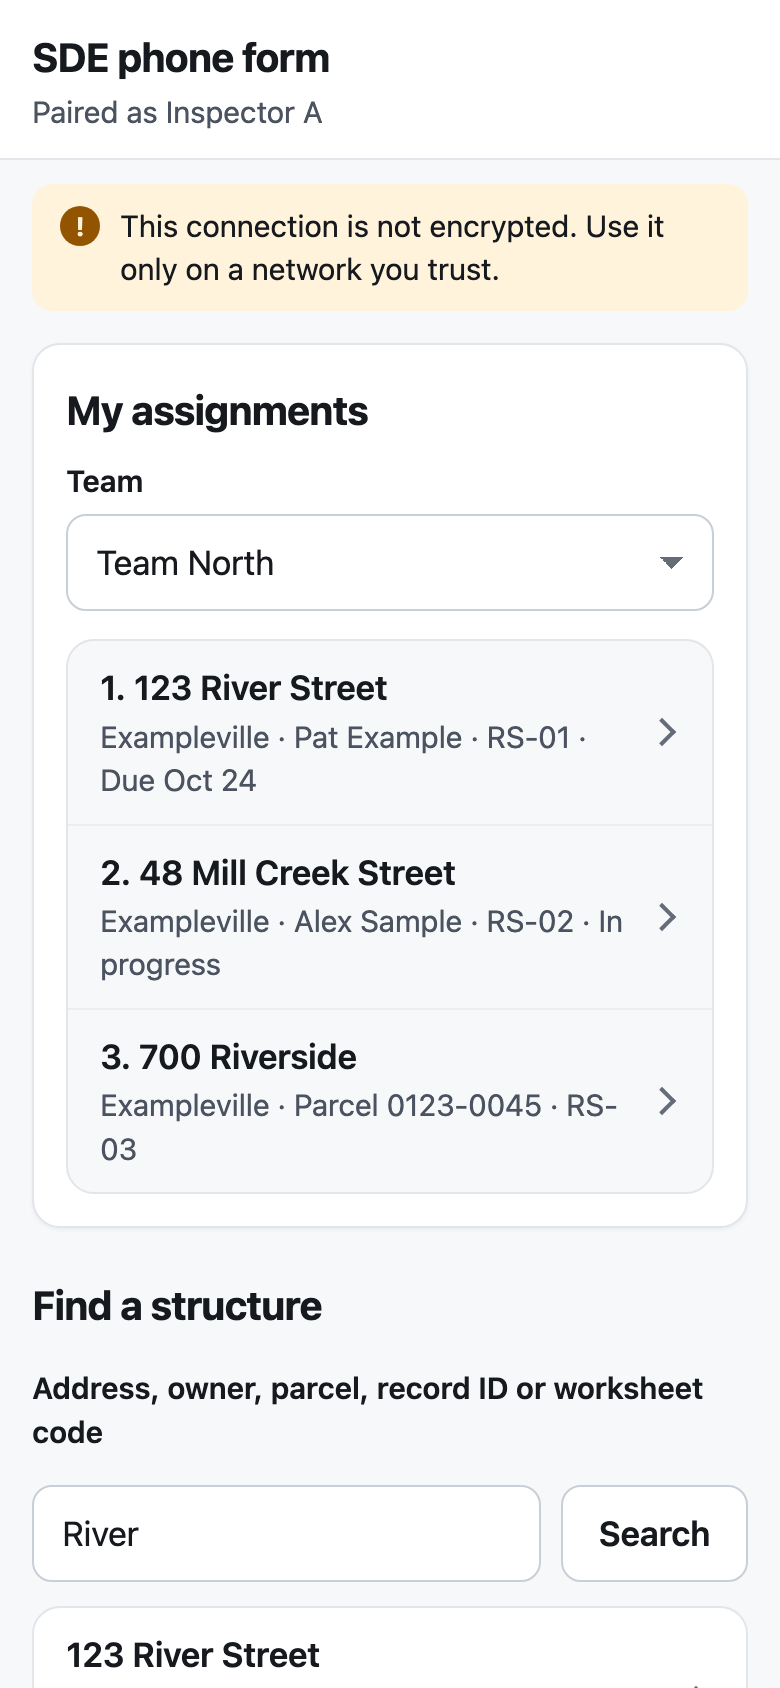
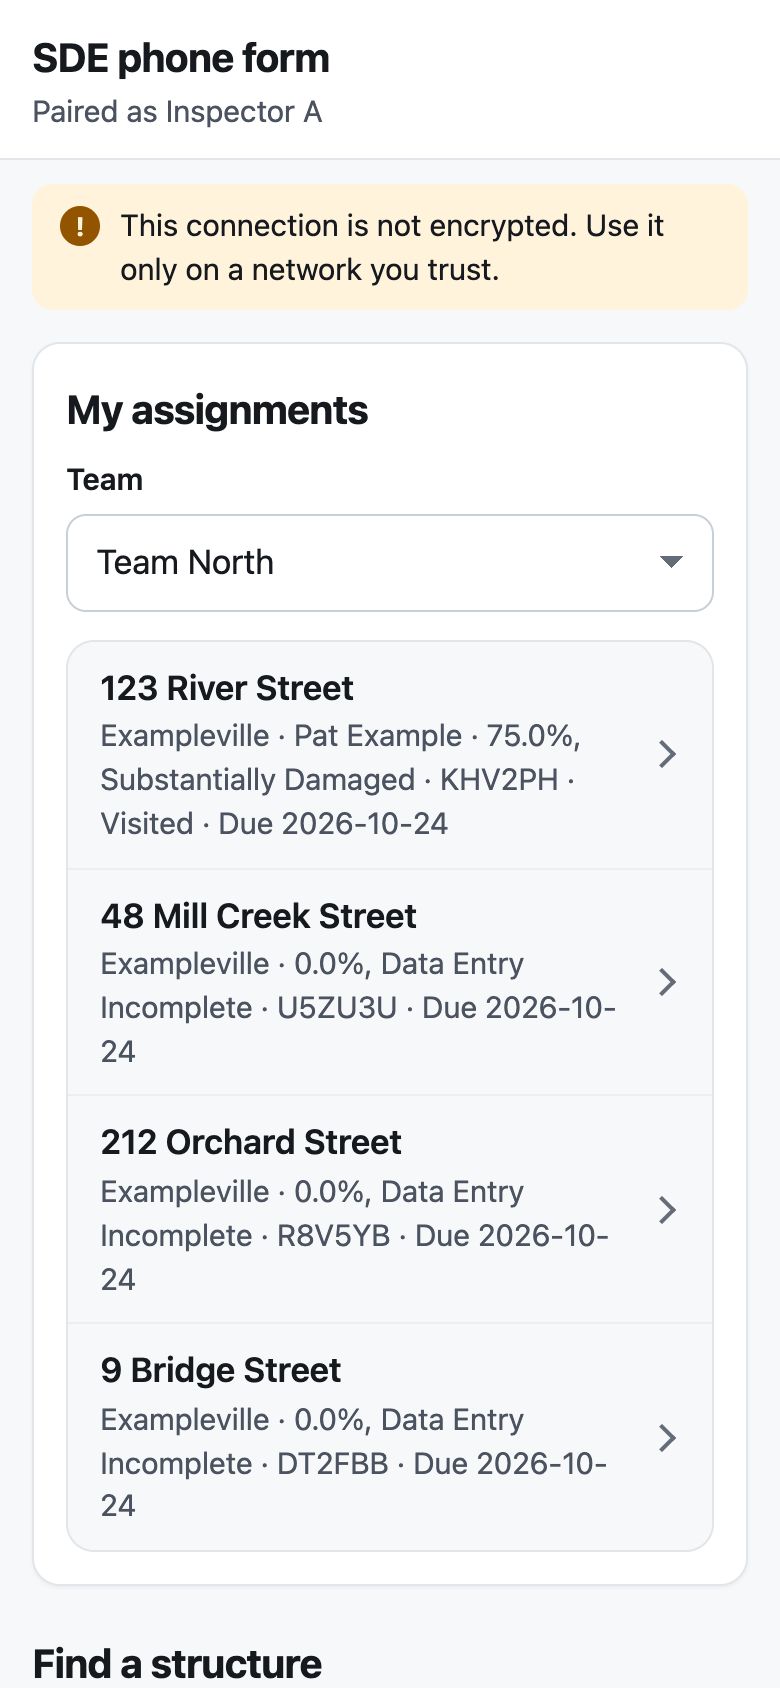
Phone form screenshots are real renders now, with a tool to make them again
tools/phone-screens/shoot.mjs drives headless Chrome over the DevTools
protocol at a phone's size: it pairs with the one-time token as the QR
code would, shows My assignments, opens the first structure, and
captures 90-phone-find and 91-phone-edit in light and dark.
PhoneScreensHost (tests/Sde.Field.Tests) serves the phone form with
made-up data for it, and does nothing unless SDE_PHONE_SCREENS is set.
Replaces the hand-made mock-ups.

diff --git a/tests/Sde.Field.Tests/PhoneScreensHost.cs b/tests/Sde.Field.Tests/PhoneScreensHost.cs
@@ -1,0 +1,57 @@
+using System.Net;
+using System.Text.Json;
+using Sde.Core.Assessments;
+using Sde.Core.Records;
+using Sde.Data;
+
+namespace Sde.Field.Tests;
+
+/// <summary>
+/// Not a test: the phone form running with made-up data, for tools/phone-screens/shoot.mjs to photograph. It does
+/// nothing unless SDE_PHONE_SCREENS names a folder; then it writes server.json there (the address and pairing token)
+/// and serves until a file called "done" appears (or three minutes pass).
+/// </summary>
+public class PhoneScreensHost
+{
+	[Fact]
+	public async Task ServeForScreenshots()
+	{
+		string folder = Environment.GetEnvironmentVariable("SDE_PHONE_SCREENS");
+		if (string.IsNullOrEmpty(folder))
+		{
+			return;
+		}
+		Directory.CreateDirectory(folder);
+		using TempDatabase db = new TempDatabase();
+		SdeStore store = db.Store;
+		store.UserName = "Reviewer A";
+		AssessmentFile river = SampleCases.RanchFlood(store);
+		List<Guid> properties = new List<Guid> { river.Property.PropertyID };
+		foreach ((string number, string street) in new[] { ("48", "Mill Creek"), ("212", "Orchard"), ("9", "Bridge") })
+		{
+			PropertyRecord p = store.SaveProperty(new PropertyRecord { StructureTypeID = 1, StreetNumber = number, StreetName = street, StreetSuffixID = river.Property.StreetSuffixID, City = river.Property.City, StateID = river.Property.StateID });
+			store.CreateAssessment(p.PropertyID, applyDefaults: false);
+			properties.Add(p.PropertyID);
+		}
+		TeamRecord team = store.SaveTeam(new TeamRecord { Name = "Team North", Members = "Inspector A, Inspector B" });
+		store.AssignToTeam(properties, team.TeamID, null, DateTime.Today.AddDays(2));
+		store.SetAssignmentStatus(store.GetAssignments(team.TeamID)[0].AssignmentID, AssignmentStatuses.Visited);
+
+		FieldServer server = new FieldServer(() => store, new DirectFieldWriter(() => store));
+		server.Start(new FieldServerOptions { BindAddress = IPAddress.Loopback, TempFolder = Path.Combine(db.Folder, "phone-temp") });
+		try
+		{
+			File.WriteAllText(Path.Combine(folder, "server.json"), JsonSerializer.Serialize(new { baseAddress = server.BaseAddress.ToString(), token = server.Pairing.Current.Token }));
+			string done = Path.Combine(folder, "done");
+			for (int i = 0; i < 1800 && !File.Exists(done); i++)
+			{
+				await Task.Delay(100);
+			}
+		}
+		finally
+		{
+			await server.StopAsync();
+			File.Delete(Path.Combine(folder, "server.json"));
+		}
+	}
+}

diff --git a/tools/phone-screens/README.md b/tools/phone-screens/README.md
@@ -1,0 +1,16 @@
+# Phone form screenshots
+
+`docs/screenshots/90-phone-find*.png` and `91-phone-edit*.png` are photographs of the real phone form, made with
+made-up data. To make them again (macOS, with Google Chrome and Node 22 or later):
+
+```
+export DOTNET_ROOT=/opt/homebrew/opt/dotnet/libexec
+mkdir -p /tmp/sde-phone
+SDE_PHONE_SCREENS=/tmp/sde-phone dotnet test tests/Sde.Field.Tests --filter "FullyQualifiedName~PhoneScreensHost" &
+node tools/phone-screens/shoot.mjs /tmp/sde-phone docs/screenshots
+```
+
+`PhoneScreensHost` (in tests/Sde.Field.Tests) runs the phone form on 127.0.0.1 with four made-up structures assigned
+to "Team North", and does nothing unless `SDE_PHONE_SCREENS` is set. `shoot.mjs` starts headless Chrome at a phone's
+size (390 × 844 points, 2× pixels), pairs with the one-time token as the QR code would, shows My assignments, opens the
+first structure, and captures each screen in light and dark. It then tells the host to stop.
